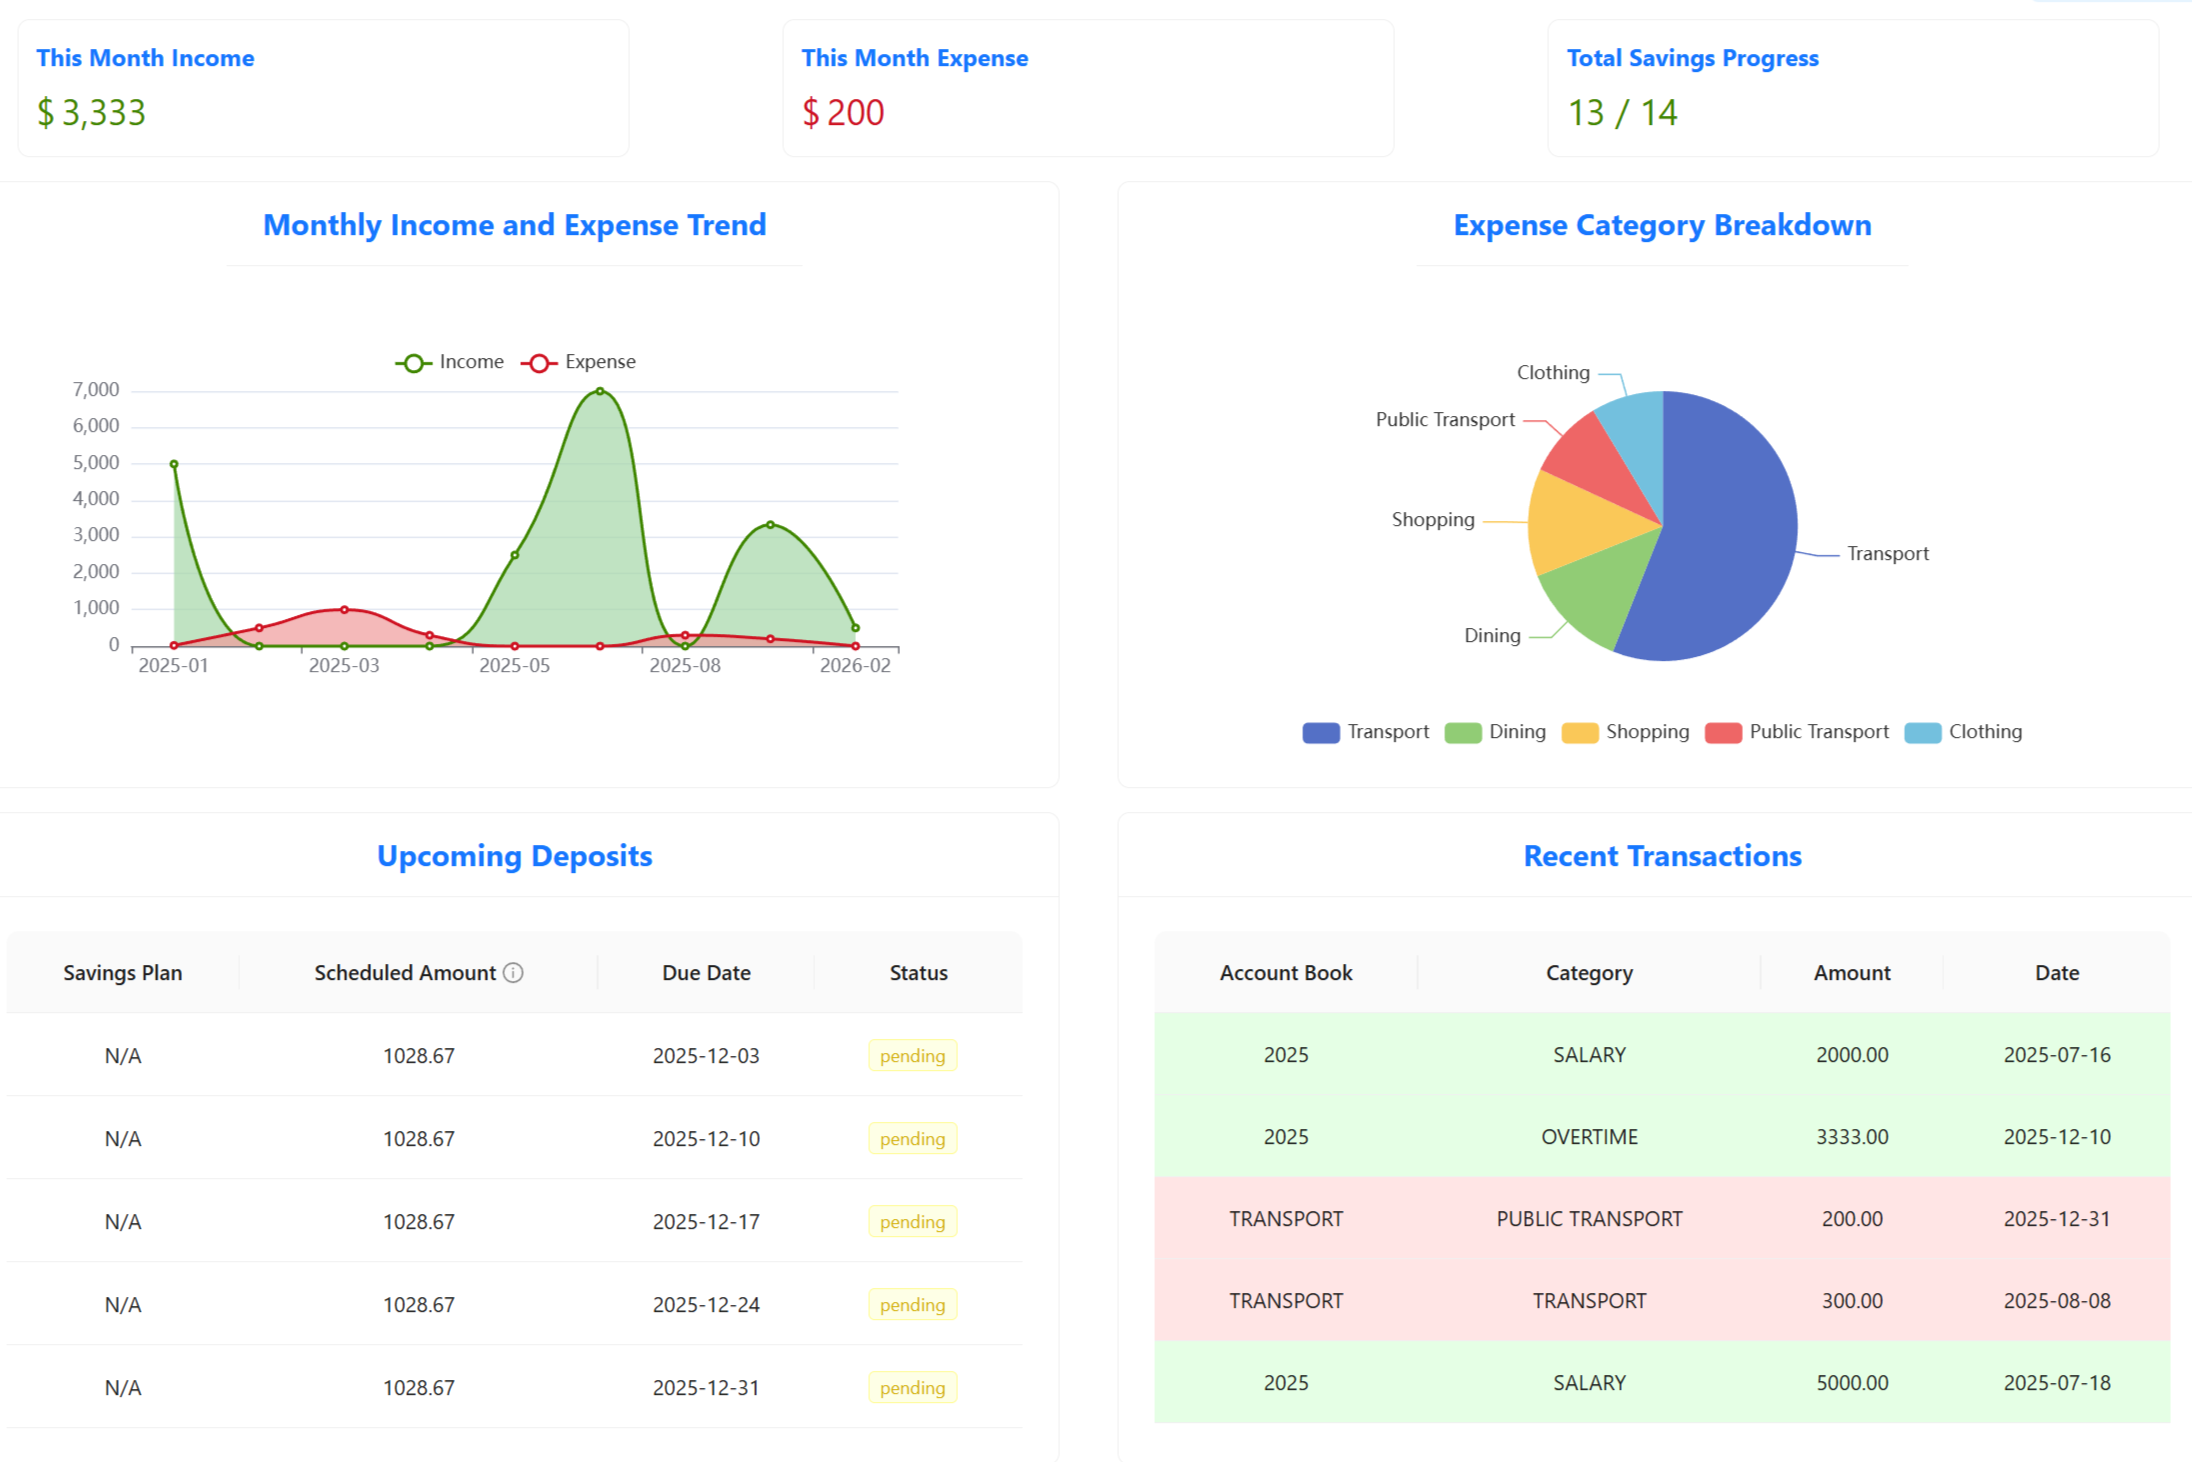
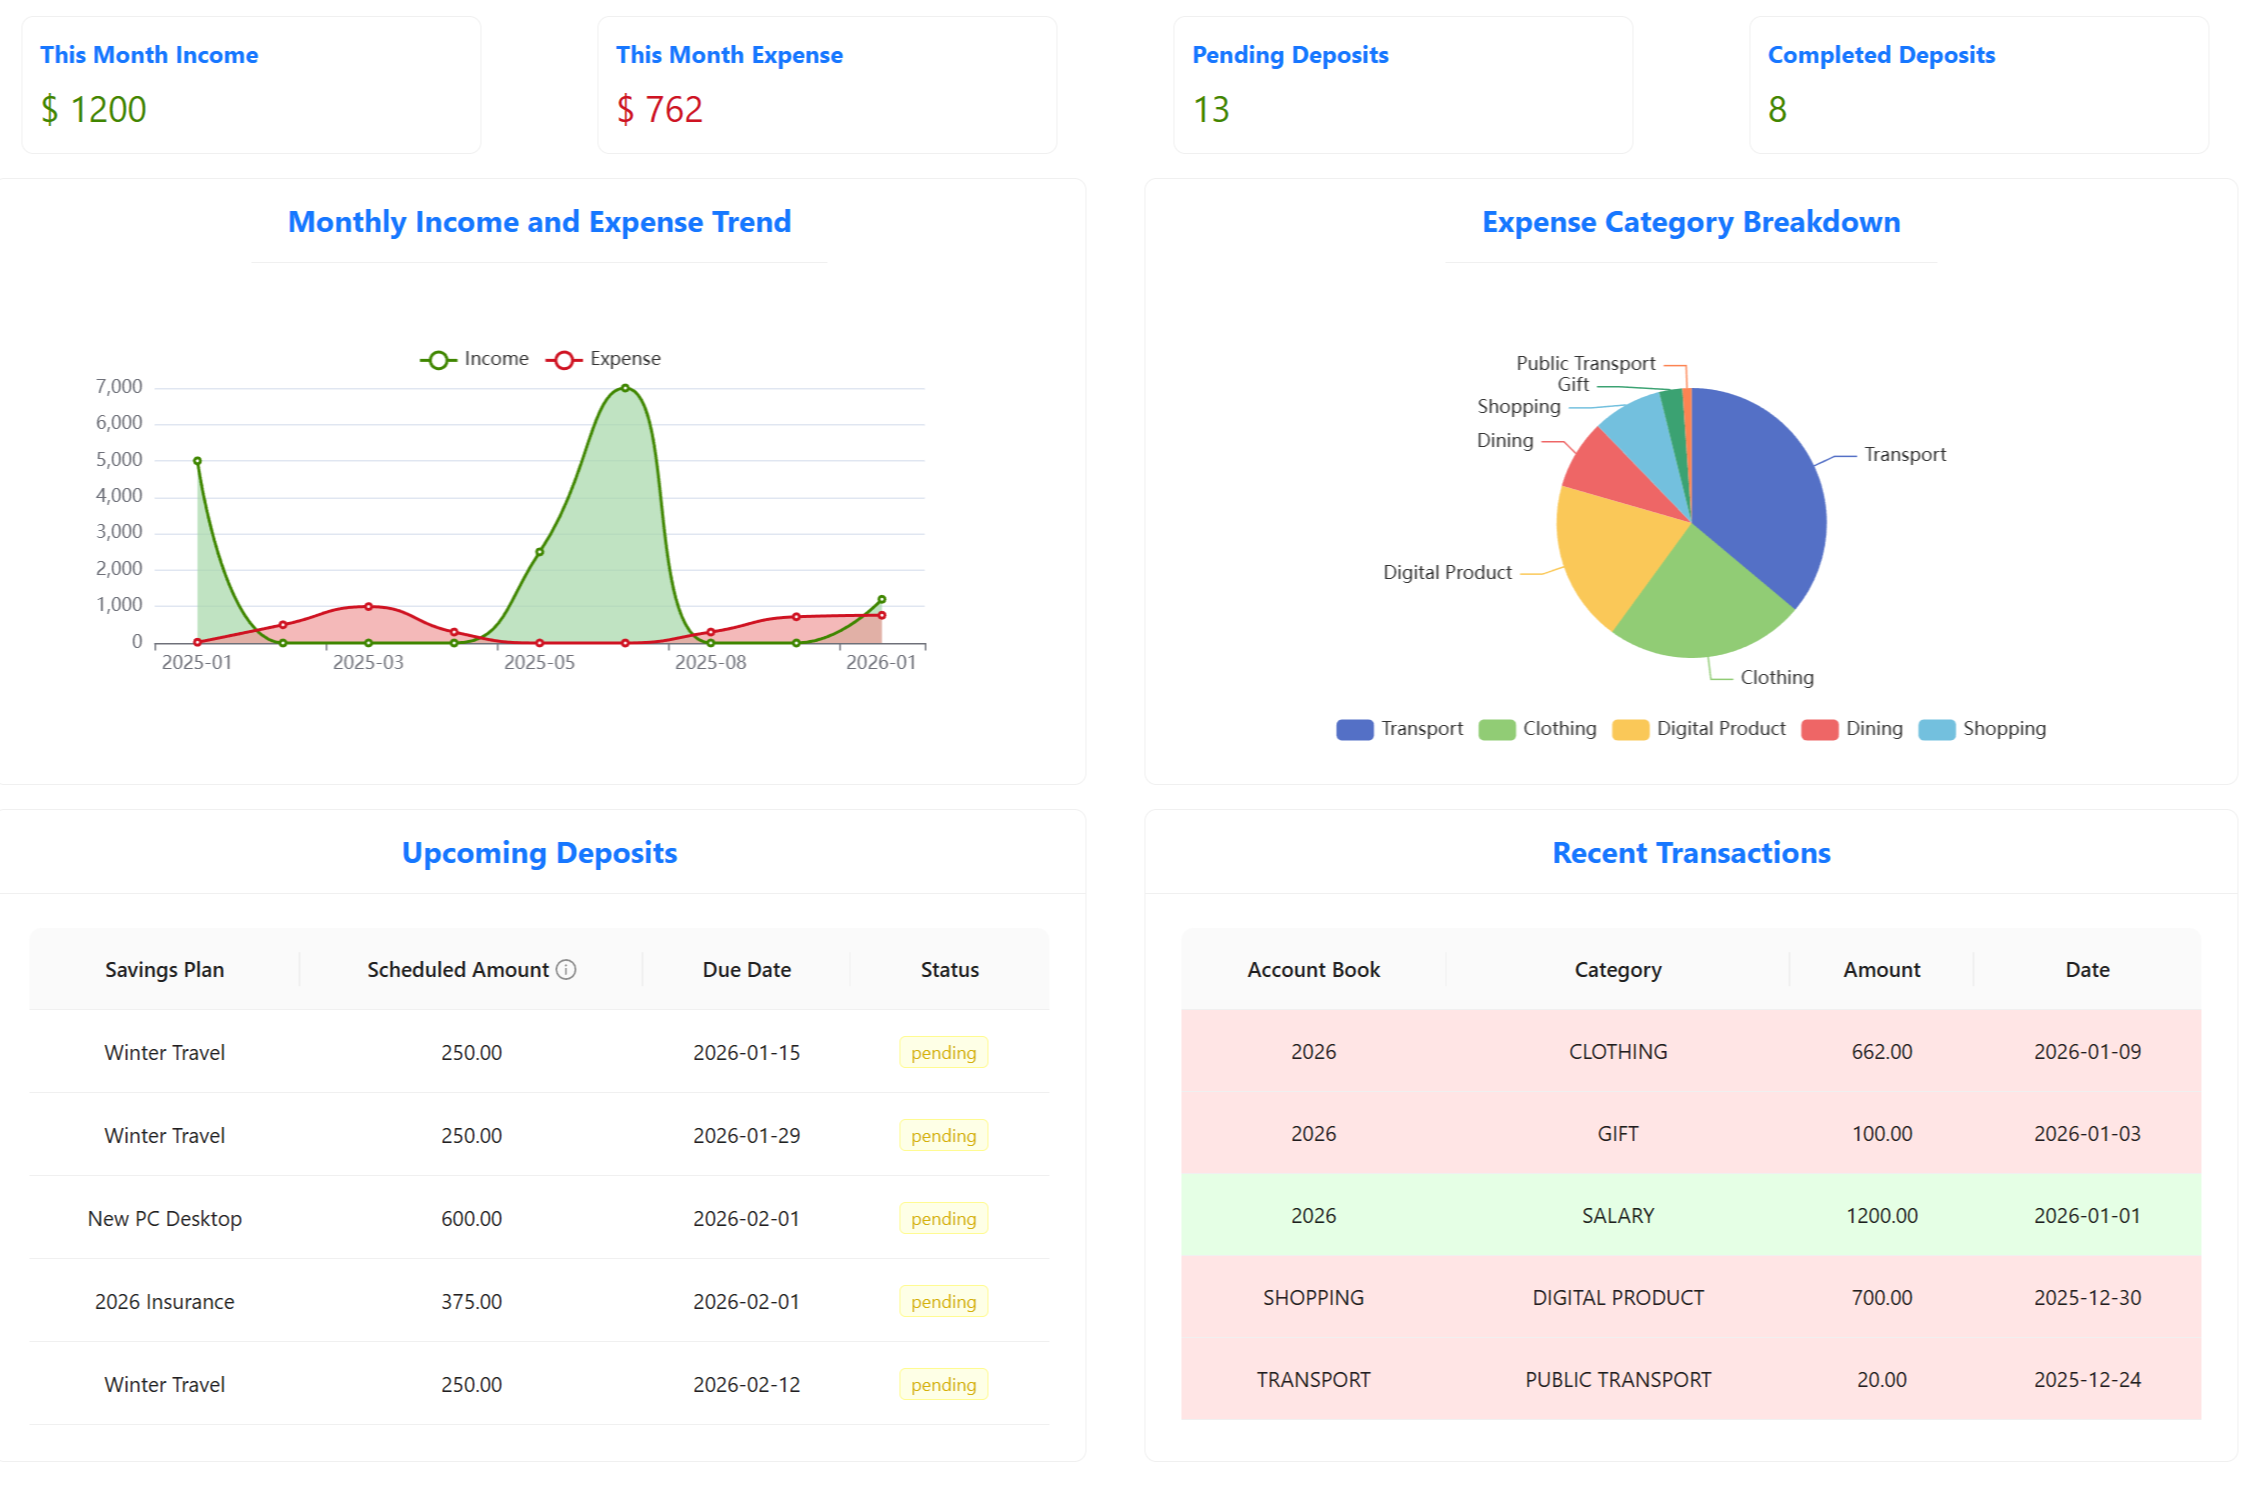
feat: transactions sort by date

diff --git a/src/pages/Dashboard/index.js b/src/pages/Dashboard/index.js
@@ -69,11 +69,14 @@ const Dashboard = () => {
   const accountBookList = useSelector((state) => state.accountBook.accountBookList);
 
   const transactionList = useSelector((state) => state.transaction.transactionList);
-  const recentTransactions = transactionList.slice(0, 5);
+  const recentTransactions = [...transactionList]
+    .sort((a, b) => new Date(b.date) - new Date(a.date))
+    .slice(0, 5);
 
   const depositList = useSelector((state) => state.deposit.depositList);
-  const recentDeposits = depositList
+  const recentDeposits = [...depositList]
     .filter((deposit) => deposit.status === "pending")
+    .sort((a, b) => new Date(a.date) - new Date(b.date))
     .slice(0, 5);
 
   const { income, expense } = useMemo(() => {

diff --git a/src/components/TransactionTable/index.js b/src/components/TransactionTable/index.js
@@ -23,7 +23,6 @@ const { Column } = Table;
 
 const TransactionTable = ({
   title,
-  header = false,
   type = true,
   onCancel,
   onDelete,
@@ -113,7 +112,9 @@ const TransactionTable = ({
       )}
 
       <Table
-        dataSource={transactionList}
+        dataSource={[...transactionList].sort(
+          (a, b) => new Date(b.date) - new Date(a.date)
+        )}
         rowClassName={(record) => {
           if (record.type === "expense") return "row-expense";
           if (record.type === "income") return "row-income";
